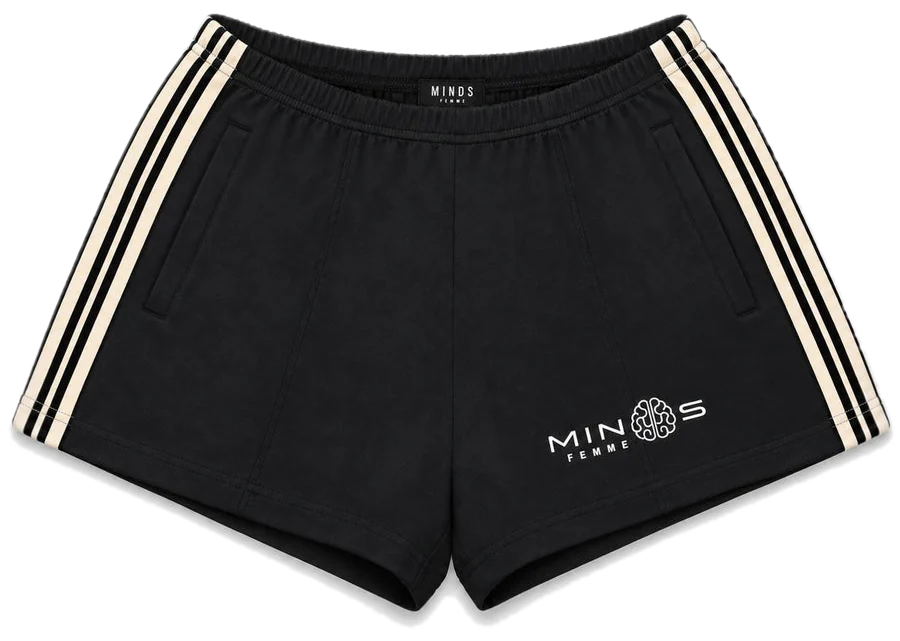
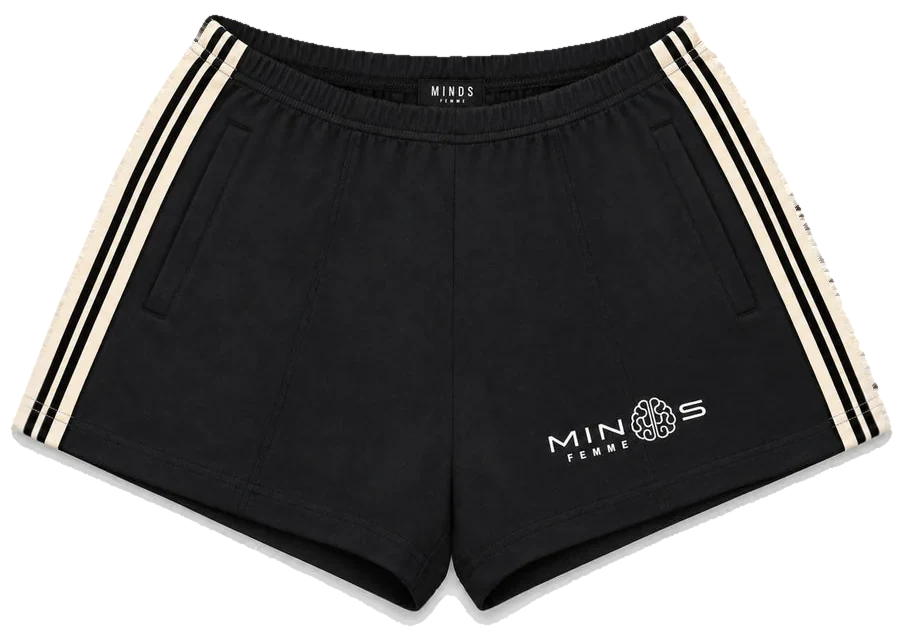
Storefront: decontaminate cut-out edges, fix section gap
Orbit shorts, Nylon pants and the Femme Noir short flat get their edge pixels
recoloured from the nearest solid garment pixel (no pale halo on concrete);
the stories section no longer doubles its bottom padding.

Claude-Session: https://claude.ai/code/session_01WBaQmWTRLNwF8scoNEskdZ

diff --git a/prototype/index.html b/prototype/index.html
@@ -198,7 +198,7 @@ fieldset.sizes legend { font-weight: 500; font-size: 14px; padding: 0; margin-bo
 
 /* Story cards: the Orlando store and the list, side by side */
 .stories { display: grid; grid-template-columns: repeat(2, minmax(0, 1fr)); gap: 2px; }
-.stories-band { padding-bottom: 0; }
+section.stories-band { padding-bottom: 0; }
 .stories .shot { aspect-ratio: 5 / 4; }
 .story-store > img { object-position: 50% 40%; }
 .story-news > img { object-position: 50% 100%; }
